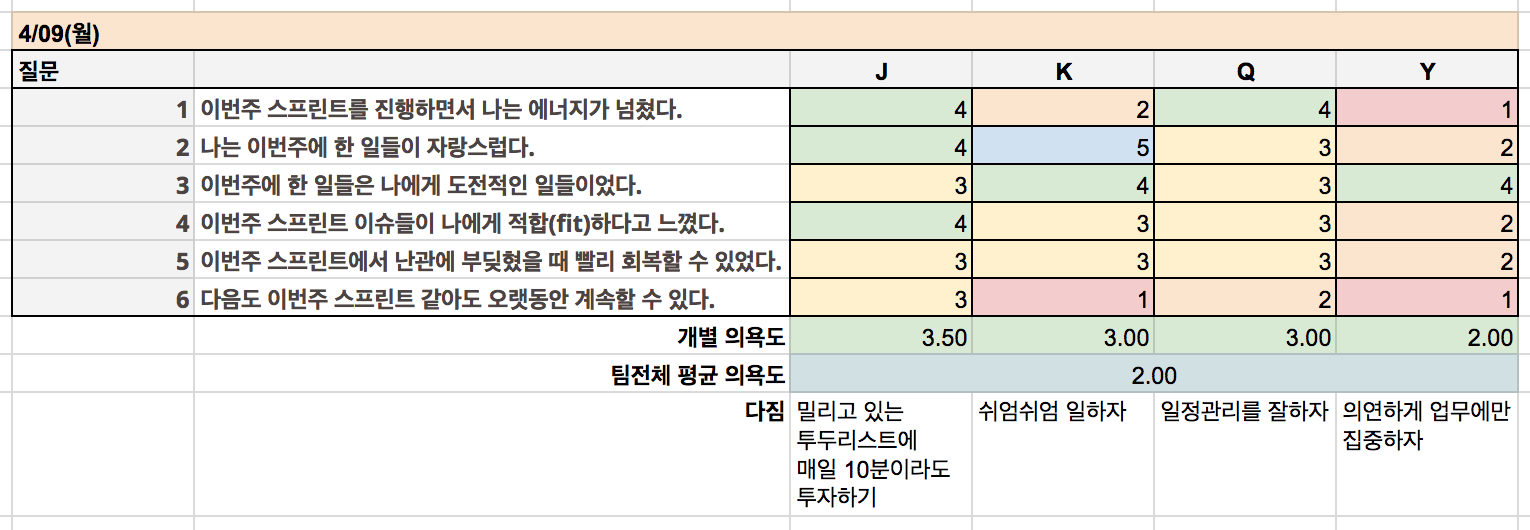
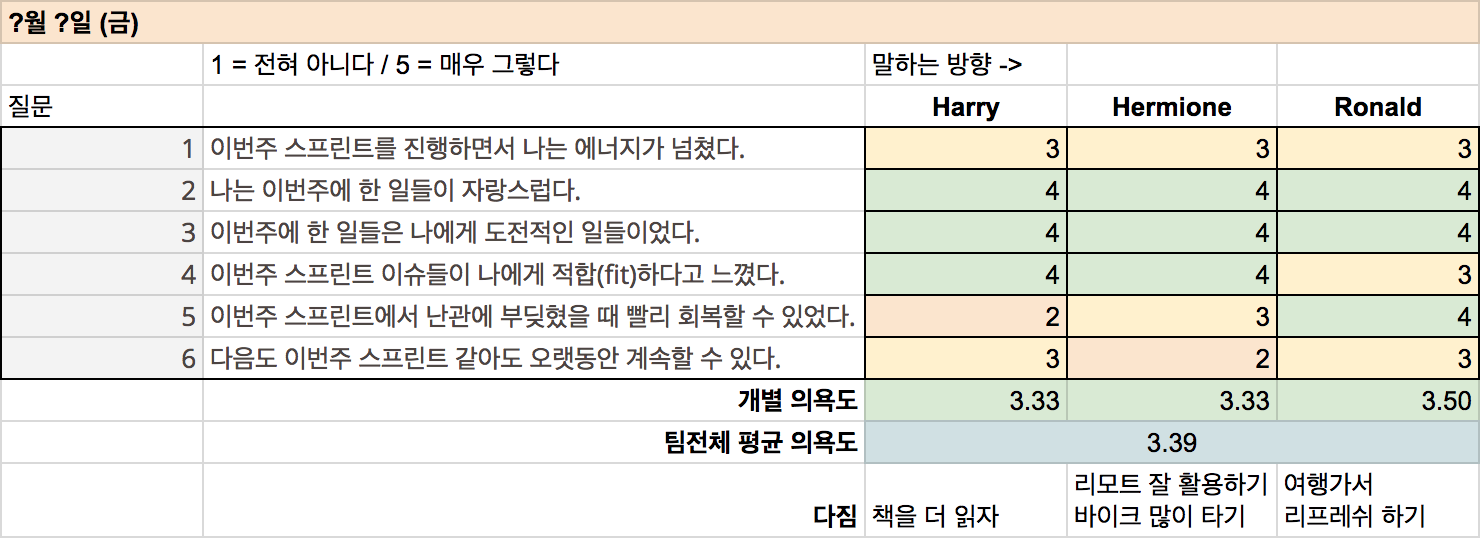
done for 1st reviews

diff --git a/_posts/2018-09-11-happyhour.md b/_posts/2018-09-11-happyhour.md
@@ -1,0 +1,130 @@
+---
+layout: entry
+title: 사기 높은 팀을 만드는 해피아워
+author: 박지선
+author-email: jessica@spoqa.com
+description: 팀 관리를 위한 온도 체크, 해피아워 도입 후기를 공유합니다.
+publish: true
+---
+
+# 팀원의 상태 변화를 잘 알 수 있을까?
+
+<figure>
+  <img src="/images/happyhour/spoqa-pokemon.JPG"
+     style="margin-right:auto; margin-left:auto;" />
+  <figcaption>
+    각 포켓몬의 머리 위에 떠 있는 아이콘과 하단의 UI를 통해 캐릭터의 체력과 상태 등을 알 수 있다.
+  </figcaption>
+</figure>
+
+최근 포켓몬 퀘스트라는 게임을 해봤습니다. 3마리의 포켓몬이 뭉쳐 상대 포켓몬들과 싸우며 경험치를 쌓고 새로운 동료를 모으는 게임입니다. 게임을 진행 중일 때 포켓몬의 체력, 공격력 외에도 마비, 화상, 잠듦 등 현재 상태가 어떤지 보여줍니다. 상태를 UI로 바로바로 볼 수 있기 때문에 라운드 난이도에 비해 어떤 포켓몬이 약한지 혹은 이번 라운드가 어떻게 될지 가늠할 수 있고, 만약에 죽게 되면 다음 라운드에서 저 적합한 포켓몬과 아이템을 세팅해 더 수월하게 게임을 즐길 수 있습니다.
+
+갑작스럽지만, 자신이 포켓몬이라고 생각해봅시다. 함께 일을 하는 동료는 어떤 상태로 일을 하고 있는지 잘 아시나요? 그들은 지금 하는 업무에 대해 보람을 느끼며 하고 있을까요? 게임과 달리 현실에서는 자주 마주치며 대화하더라도 쉽지 않을 수 있습니다. 어떻게 하면 나 그리고 협업하는 동료가 얼마나 행복한 스프린트를 보내고 있는지 알 수 있을까요?
+
+<figure>
+  <img src="/images/happyhour/retrospective.JPG"
+     style="margin-right:auto; margin-left:auto; width: 400px;" />
+  <figcaption>
+    연말 맞이 2017년 디자인팀 회고
+  </figcaption>
+</figure>
+
+스포카에서는 스프린트를 도입한 지 4년 정도가 되었습니다. 당시에는 새로운 방식을 도입하는 생경함이 있었는데 그간 IT 스타트업에서 스프린트로 일하는 팀이 많아져서 현재는 흔한 업무 방식이 되었다고 느낍니다. 애자일 회고도 2014년 즈음부터 하기 시작했습니다. 팀별 주기는 다르지만, 디자인팀의 경우 월간으로 애자일 회고를 하고 있었습니다.
+
+보통 스프린트 회고에서는 다음 스프린트를 성공적으로 만들기 위한 목표를 세웁니다. 가령 일의 양을 가늠하기 쉽도록 이슈를 더 작은 단위로 나누어서 하자거나 이슈가 예상보다 훨씬 양이 깊어지면 팀원이 제동을 걸어 단기적인 해결책을 제시한다 등이 있겠습니다.
+
+
+# 팀 관리 고민을 타파할 방법을 찾다
+
+그런데 언제부턴가 스포카 디자인팀은 공통적인 스프린트 목표를 세운다는 것이 쉽지 않았고 기존 전통적인 회고 방식이 뭔가 부족하다고 느꼈습니다. 챕터(직군)보다 스쿼드(제품 팀)로서의 업무가 더 중요한 방향으로 사내 업무 환경이 변화했고, 업무 외 상황으로 인한 피로감 때문에 멘탈 관리가 필요한 때도 있었기 때문이었습니다.
+
+그랬기 때문에 팀원들의 온도 측정이 디테일하게 필요하다고 느꼈습니다. 스쿼드도 중요하지만 스포카 디자인팀은 챕터 간의 팀 빌딩을 매우 중요하게 생각하기에 더욱이나 팀원들이 큰 좌절 없이 즐겁게 일하고 있는지 파악하는 것이 중요해 보였습니다. 그래서 회고 주기를 주간에서 월간으로도 변경해보고, 아젠다 논의 시간을 더 가져보기도 하며 회고 형식을 지속해서 수정하기도 해보게 됩니다.
+
+그러다 다른 회사에서 해피아워라는 이름으로 점심시간마다 팀원 몇 명이 함께 식사하며 몇 가지 질문을 하면서 온도 체크하는 활동을 한다기에, 우리에게도 접목해보면 좋겠다 싶어 온도 체크를 중점적으로 할 수 있는 애자일 활동을 찾아보기 시작했습니다. 그러던 중 스크럼과 애자일을 코칭해주는 회사인 Agilistic의 Christiaan Verwijs가 쓴 [애자일 팀: 행복 메트릭스가 아닌 팀 사기를 측정하라](https://blog.agilistic.nl/agile-teams-dont-use-happiness-metrics-measure-team-morale/)를 접하게 되었습니다. 그는 조직심리학을 전공하고 일 만족도와 조직 복지(well-being)를 측정하는 컨설턴트 경력자입니다. 최근에 써진 따끈따끈한 글은 아니지만, 시대를 타지 않는 글이었습니다. 자세한 내용은 링크를 통해 읽어보시길 권장하지만, 간단히 소개해드리겠습니다.
+
+
+# 행복은 측정할 수 없지만, 사기(Morale)는 측정할 수 있다.
+
+애자일은 팀워크가 중요하고 인간적인 측면이 있기에, 행복한 팀은 꾸준히 효율적으로  고품질의 소프트웨어를 제공할 것이라고 합니다. 여기서 행복한 팀인지는 어떻게 측정해야 할까요? Christiaan은 행복이라는 개념은 측정하기 유용하지 않다고 이야기합니다. 사람마다 행복에 대한 해석이 달라 각자 다른 의미의 응답을 줄 수 있으며, 어떤 사람이 행복하지 않다고 말할 때 일과 무관한 것일 수도 있고 팀에서 어떻게 해줄 수 없는 작업과 동떨어진 것일 수도 있습니다. 또한, 통계적으로도 행복을 측정하는 것은 좋지 않았다고 합니다.
+
+그렇다면, 팀이 얼마나 행복한지 어떻게 제대로 측정하는 걸까요? 바로 팀 사기(Morale)라는 개념을 이용하면 된다고 합니다.
+
+- **사기는 태스크 지향적이다.** 현재 팀에서 수행 중인 작업을 처리할 수 있는 능력에 대한 평가를 반영합니다.
+- **사기는 개인보다 팀 지향적이다.** 팀이 얼마나 응집력 있고 잘 운영되는지 보여줍니다.
+- **사기는 행복을 포함하지만 좀 더 절묘하다.** 사기가 높은 팀은 일반적으로 행복한 개인을 가진 팀입니다. 불행한 회원이 많은 팀은 사기가 낮을 수 있습니다. 하지만 항상 그런 것은 아니기에 높은 수준의 개념을 통해 행복의 일부를 포착합니다.
+- **사기는 기분에 덜 민감하다.** 행복은 팀원의 현재 분위기에 매우 영향을 받기 쉽지만 팀 사기는 팀의 활동 방식보다 안정적으로 인식됩니다. 개인이 나쁜 날을 보냈더라도 팀 사기는 높을 수 있습니다.
+- **사기는 편견이 아니다.** 행복의 척도는 사람들이 항상 행복해야 한다고 믿도록 편향되어 있지만, '사기'라는 개념은 덜 편향되어있습니다.
+
+
+# 해피아워는 어떻게 하는 건가요?
+
+앞서 소개한 Christiaan Verwijs의 글에서 소개하는 팀 사기 측정법을 저희는 해피아워라고 부르기로 했습니다. VD팀에서 2017년 9월부터 월간 회고 대신에  주 1회 스프린트 회의 전에 하고 있으며, 현재는 VD팀이 속한 제품 팀에서도 자체적으로 전통적인 회고와 번갈아 가며 진행해보고 있습니다. 목표 도출보다는 팀원들의 감정을 이야기하는 시간으로 쉽게 말하면 온도 측정을 중심으로 하는 회고 포맷입니다.
+그대로 사용하기보다는 저희 팀에 맞게 포맷과 진행방법을 최적화했습니다. 이를테면, Christiaan의 방법에서는 익명으로 진행하지만, 저희는 구두로 이야기하면서 합니다.
+
+수정한 버전을 아래에 소개합니다.
+
+
+### 해피아워는 언제 쓰는 게 좋을까?
+
+- (HR 부서 등에서) 팀 관리 보고나 모니터를 위해 팀 웰빙을 객관적으로 측정하고 싶을 때
+- 태스크와 팀 프로세스에 초점이 맞춰진 더 섬세한 측정이 필요할 때
+- 팀원들은 괜찮다고 하지만 그렇게 생각되지 않을 때
+- 히스토리를 쌓아 결과에 대한 더 깊은 분석을 하고 싶을 때
+
+### 해피아워 진행 방법
+
+1. 각자 질문 당 1~5점으로 점수를 매긴다.
+  - 지난 스프린트를 진행하면서 나는 활력이 넘쳤다.
+  - 나는 지난 스프린트에 한 일들이 자랑스럽다.
+  - 지난 스프린트에 한 일들은 나에게 도전적인 일들이었다.
+  - 지난주 스프린트 이슈들이 나에게 적합하다고 느꼈다.
+  - 지난주 스프린트에서 난관에 부딪혔을 때 빨리 회복할 수 있었다.
+  - 다음도 지난 스프린트 같아도 오랫동안 계속할 수 있다.
+2. 돌아가면서 각 질문에 그 점수를 매긴 이유에 관해 이야기한다.  
+3. 개별 의욕도를 계산한다. (점수 총합 / 질문 개수)
+4. 팀 전체 의욕도를 계산한다. (개별 의욕도 총합 / 사람 명수)
+5. 개인 혹은 팀의 낮고 점수와 높은 점수의 원인에 대해 질문 및 토의한다.
+6. 더 행복하고 의욕 있게 일하기 위해 다음 스프린트에 각자 시도해볼 포인트 1~2개를 말한다. (꼭 직무와 연관 있을 필요 없음)
+
+참고로, 진행 과정 중 3~4번은 바로 팀의 평균 사기를 파악할 수 있도록 스프레드시트에 계산되도록 해 시간을 절약하고 있습니다.
+또한, 해피아워는 상태 파악에 초점을 맞춘 포맷이기에 너무 길어지지 않도록 진행하고 다음 스프린트 계획에 참고하는 용도로도 활용하고 있습니다.
+
+<figure>
+  <img src="/images/happyhour/happyhour-sheet.png"
+     style="margin-right:auto; margin-left:auto;" />
+  <figcaption>
+    최첨단? 엑셀 시스템으로 팀 상태를 빠르게 파악 가능한 해피아워
+  </figcaption>
+</figure>
+
+
+# 해피아워 후기
+
+그래서 정말로 팀 케어에 도움이 되었느냐 묻는다면, 해피아워를 여러 번 함께한 동료들의 아래 감상들을 읽어보시면 답이 되지 않을까 합니다.
+
+### 팀원들에 대해 잘 알 수 있다.
+
+- 매주 잠깐이나마 내 상태에 관해서 이야기를 나눌 수 있어서 좋았다.
+- 사람들 머릿속에 무엇이 있는지 알 수 있어 좋았다.
+- 누가 어떤 일에 특히 흥미를 느끼는지 알 수 있었다.
+- 같은 일에 대해 사람마다 점수가 다를 때 왜 그런 점수를 주었는지, 어떻게 서로 다르게 바라보는지 알 수 있었다.
+
+
+### 팀 관리에 도움 된다.
+
+- 느낌이 숫자로 보이니 팀원들의 상태를 객관적으로 파악할 수 있게 되는 것 같다.
+- 자연스럽게 업무에 관해 이야기할 수 있는 시간이라 좋다.
+- 서비스 지표 관리하듯 팀의 사기를 엄격하게 관리하기는 어렵지만, 팀으로 일할 때 이런 식으로 터 넣고 이야기할 수 있는 장치가 하나쯤은 있어야 하는 것 같다.
+- 솔직하게 내 심정에 관해서 얘기하는 시간이 있으니까 더 팀원들을 신뢰하게 되고 팀 사기에 있어서 실제로 도움이 된다.
+- 회고는 목표 도출이 좀 애매할 때가 많아서 목표 도출을 위한 목표를 만드느라 머리 아플 때가 있었는데, 이렇게 바뀌고는  서로의 감정이나 상태에 더 집중할 수 있어서 좋다.
+- 매주 해피아워를 하다 보니 서로 감정 상태의 추이를 대충 볼 수 있어서 다음 주의 기분/체력을 대강 예측할 수 있다.  상태가 저조할 것 같다고 예상되면 그에 대해 대비를 할 수 있어서 좋다.
+
+
+### 아쉬운 점이나 기타 의견
+
+- 탑다운 형식으로 진행되는 일부 프로젝트에서도 해피아워가 유용했다. 결정권자가 없어 목표 세우기가 힘들기에 회고가 맞지 않았을 것 같다. 해피아워는 단합하긴 좋지만, 일 처리 자체에 도움이 되는지는 잘 모르겠다.
+- 얼마나 균질한 일을 함께하느냐에 따라 회고/해피아워 중 무엇이 더 적절한 스쿼드인지 알 수 있을 것 같다.
+
+# 글을 맺으며
+
+해피아워는 회고와 성격이 다르고 대체재가 아니기 때문에 팀 상황에 따라 적절히 활용하는 것을 권장합니다. 해피아워를 반년 이상 진행하며 재미있었던 점 중 하나는 사람들은 날씨에 영향을 굉장히 많이 받는다는 것이었습니다. 날씨가 좋으면 기본적으로 점수가 향상되더군요. 다른 회사 제품팀에서도 이러한 애자일 활동을 하는 것으로 알고 있습니다. 어떤 것들을 시도하고 계시는지, 여러분이 발견한 재미있는 점은 무엇인지 함께 고민하고 나누는 기회가 되었으면 좋겠습니다. 감사합니다.
